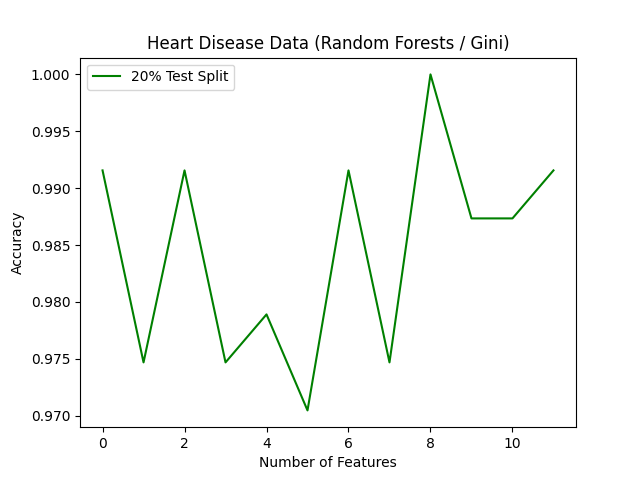
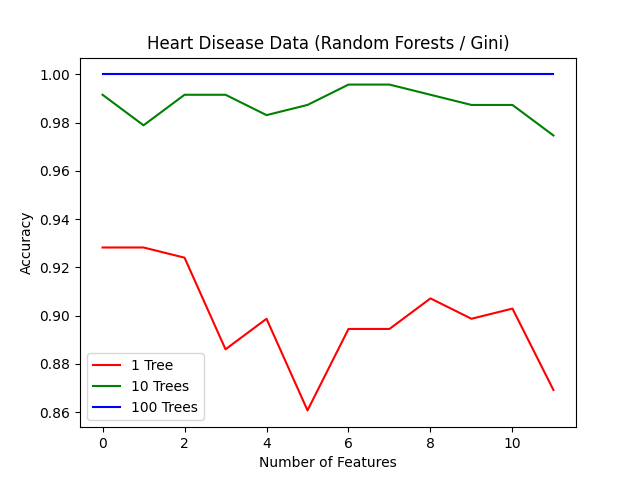
added multiple forest sizes.

diff --git a/A1/randomforests.py b/A1/randomforests.py
@@ -54,7 +54,10 @@ def generate_plot(title, xlabel, ylabel, data, name):
     plt.xlabel(xlabel)
     plt.ylabel(ylabel)
     
-    plt.plot(data, 'g', label = "20% Test Split")
+    plt.plot(data[0], 'r', label = "1 Tree")
+    plt.plot(data[1], 'g', label = "10 Trees")
+    plt.plot(data[2], 'b', label = "100 Trees")
+    
     plt.legend()
     
     filename = name + ".png"
@@ -67,22 +70,29 @@ def main():
     X_train_seeds, X_test_seeds, y_train_seeds, y_test_seeds = seeds_data_setup()
 
     criterion = 'gini'
-    n_estimators = 10
+    n_estimators = [1, 10, 100]
 
-    heart_trees = []
-    seeds_trees = []
+    heart_forests_n = []
+    seeds_forests_n = []
+
     heart_max = 13
     seeds_max = 7
 
-    for max_features in range(1, heart_max):
-        heart_trees.append(random_forest(X_train_heart, X_test_heart, y_train_heart, y_test_heart, criterion, n_estimators, max_features))
+    for n in n_estimators:
+        heart_forests = []
+        seeds_forests = []
 
-    for max_features in range(1, seeds_max):
-        seeds_trees.append(random_forest(X_train_seeds, X_test_seeds, y_train_seeds, y_test_seeds, criterion, n_estimators, max_features))
+        for max_features in range(1, heart_max):
+            heart_forests.append(random_forest(X_train_heart, X_test_heart, y_train_heart, y_test_heart, criterion, n, max_features))
+        
+        for max_features in range(1, seeds_max):
+            seeds_forests.append(random_forest(X_train_seeds, X_test_seeds, y_train_seeds, y_test_seeds, criterion, n, max_features))
 
+        heart_forests_n.append(heart_forests)
+        seeds_forests_n.append(seeds_forests)
 
-    generate_plot("Heart Disease Data (Random Forests / Gini)", "Number of Features", "Accuracy", heart_trees, "HeartRFGini")
-    generate_plot("Wheat Seeds Data (Random Forests / Gini)", "Number of Features", "Accuracy", seeds_trees, "SeedsRFGini")
+    generate_plot("Heart Disease Data (Random Forests / Gini)", "Number of Features", "Accuracy", heart_forests_n, "HeartRFGini")
+    generate_plot("Wheat Seeds Data (Random Forests / Gini)", "Number of Features", "Accuracy", seeds_forests_n, "SeedsRFGini")
 
 
 main()
